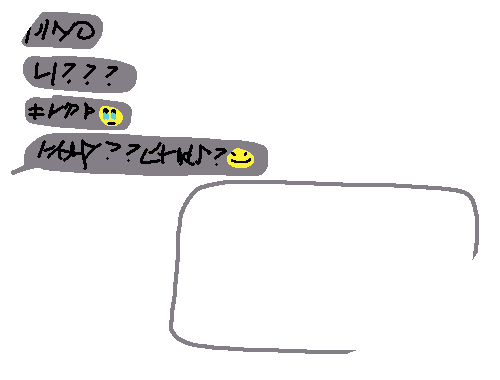
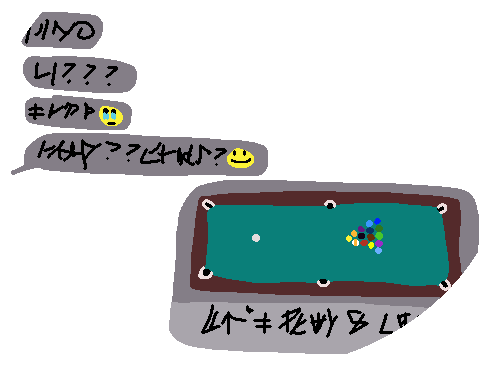
Finalize out the Oddities pack

Changed region(s): [[0.33, 0.4632, 0.96, 0.9553]]

diff --git a/src/main/java/thePackmaster/cards/odditiespack/EightBall.java b/src/main/java/thePackmaster/cards/odditiespack/EightBall.java
@@ -1,7 +1,9 @@
 package thePackmaster.cards.odditiespack;
 
+import com.badlogic.gdx.graphics.Texture;
 import com.megacrit.cardcrawl.actions.AbstractGameAction;
 import com.megacrit.cardcrawl.characters.AbstractPlayer;
+import com.megacrit.cardcrawl.helpers.ImageMaster;
 import com.megacrit.cardcrawl.monsters.AbstractMonster;
 import thePackmaster.cards.AbstractPackmasterCard;
 
@@ -12,14 +14,22 @@ public class EightBall extends AbstractPackmasterCard {
     // intellij stuff attack, enemy, special, 12, 3, 10, 2, , 
 
     public EightBall() {
-        super(ID, 1, CardType.ATTACK, CardRarity.SPECIAL, CardTarget.ENEMY);
+        super(ID, 1, CardType.ATTACK, CardRarity.SPECIAL, CardTarget.ENEMY, CardColor.COLORLESS);
         baseDamage = 12;
-        baseBlock = 10;
+        baseBlock = 112;
     }
 
     public void use(AbstractPlayer p, AbstractMonster m) {
         blck();
         dmg(m, AbstractGameAction.AttackEffect.SLASH_HEAVY);
+    }
+
+    @Override
+    protected Texture getPortraitImage() {
+        if (upgraded) {
+            return ImageMaster.loadImage("anniv5Resources/images/cards/NineBall_p.png");
+        }
+        return super.getPortraitImage();
     }
 
     @Override
@@ -30,12 +40,12 @@ public class EightBall extends AbstractPackmasterCard {
             name = cardStrings.EXTENDED_DESCRIPTION[0];
             initializeTitle();
             upp();
-            //TODO: Load card image, etc overrides
+            loadCardImage("anniv5Resources/images/cards/NineBall.png");
         }
     }
 
     public void upp() {
         upgradeDamage(3);
-        upgradeBlock(2);
+        upgradeBlock(3);
     }
 }

diff --git a/src/main/java/thePackmaster/cards/odditiespack/MidnightStrike.java b/src/main/java/thePackmaster/cards/odditiespack/MidnightStrike.java
@@ -28,6 +28,31 @@ public class MidnightStrike extends AbstractPackmasterCard {
     }
 
     @Override
+    public void applyPowers() {
+        super.applyPowers();
+
+        int count = AbstractDungeon.actionManager.cardsPlayedThisCombat.size();
+
+        this.rawDescription = cardStrings.DESCRIPTION;
+        this.rawDescription = this.rawDescription + cardStrings.EXTENDED_DESCRIPTION[0] + count;
+        if (count == 1) {
+            this.rawDescription = this.rawDescription + cardStrings.EXTENDED_DESCRIPTION[1];
+        } else {
+            this.rawDescription = this.rawDescription + cardStrings.EXTENDED_DESCRIPTION[2];
+        }
+
+        this.initializeDescription();
+
+        loadCardImage("anniv5Resources/images/cards/MidnightStrike" + ((count) % 13 + 1) + ".png");
+    }
+
+    public void onMoveToDiscard() {
+        this.rawDescription = cardStrings.DESCRIPTION;
+        this.initializeDescription();
+    }
+
+
+    @Override
     public void triggerOnGlowCheck() {
         glowColor = AbstractDungeon.actionManager.cardsPlayedThisCombat.size() == 11 ? GOLD_BORDER_GLOW_COLOR : BLUE_BORDER_GLOW_COLOR;
     }

diff --git a/src/main/java/thePackmaster/patches/rippack/StolenBardPatchForPortraits.java b/src/main/java/thePackmaster/patches/rippack/StolenBardPatchForPortraits.java
@@ -7,14 +7,18 @@ import com.evacipated.cardcrawl.modthespire.lib.*;
 import com.megacrit.cardcrawl.cards.AbstractCard;
 import com.megacrit.cardcrawl.screens.SingleCardViewPopup;
 import javassist.CtBehavior;
+import thePackmaster.cards.odditiespack.EightBall;
 import thePackmaster.cards.rippack.SurprisePack;
 
+import java.util.ArrayList;
+import java.util.Arrays;
 import java.util.Collections;
 import java.util.List;
 
 public class StolenBardPatchForPortraits {
-    private static final List<String> cardIDs = Collections.singletonList(
-            SurprisePack.ID
+    private static final List<String> cardIDs = Arrays.asList(
+            SurprisePack.ID,
+            EightBall.ID
     );
 
     @SpirePatch(

diff --git a/src/main/java/thePackmaster/cards/odditiespack/ShiningStyle.java b/src/main/java/thePackmaster/cards/odditiespack/ShiningStyle.java
@@ -21,7 +21,7 @@ public class ShiningStyle extends AbstractPackmasterCard implements StartupCard 
     public ShiningStyle() {
         super(ID, 1, CardType.POWER, CardRarity.UNCOMMON, CardTarget.SELF);
         baseMagicNumber = magicNumber = 1;
-        baseSecondMagic = secondMagic = 10;
+        baseSecondMagic = secondMagic = 8;
     }
 
     public void use(AbstractPlayer p, AbstractMonster m) {
@@ -30,7 +30,7 @@ public class ShiningStyle extends AbstractPackmasterCard implements StartupCard 
     }
 
     public void upp() {
-        upgradeSecondMagic(5);
+        upgradeSecondMagic(4);
     }
 
     @Override
